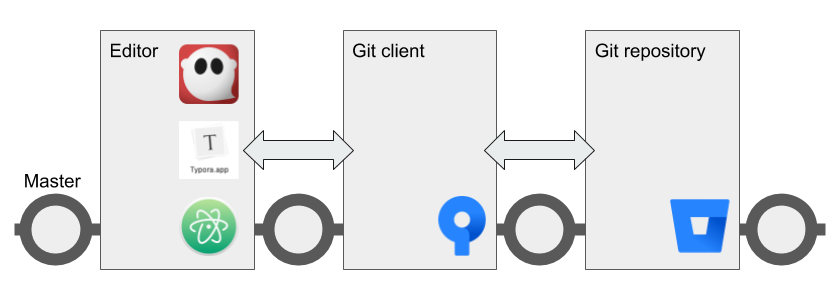
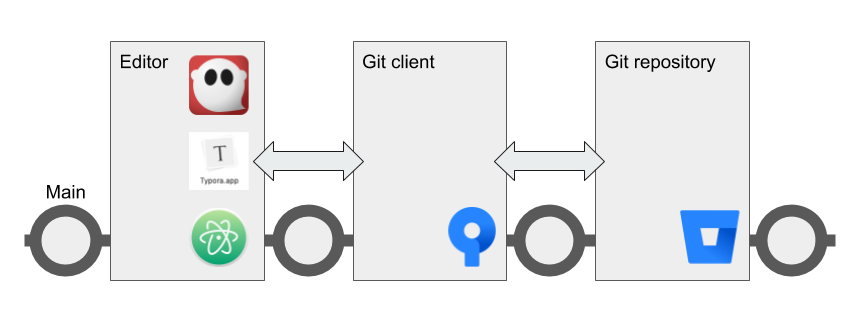
Added syntax strengths and weaknesses, fixed branch name in images.

Changed region(s): [[0.0, 0.0906, 0.9928, 0.906]]

diff --git a/source/resources/syntax-comparison.rst b/source/resources/syntax-comparison.rst
@@ -3,9 +3,26 @@ Markup comparison
 
 Here's a comparison of three popular markup languages:
 
-- AsciiDoc provides powerful, flexible syntax using blocks and attributes. 
+- AsciiDoc provides powerful, flexible syntax using blocks and attributes.
 - Markdown focuses on simplicity and ease of writing.
 - reStructuredText uses an extensible scheme of interpreted text roles, blocks, and directives.
+
+All three are supported in Git repositories.
+
++--------------------+------------------------------+--------------------------------------------+-----------------------------------------------------------+
+|                    | AsciiDoc                     | Markdown                                   | reStructuredText                                          |
++====================+==============================+============================================+===========================================================+
+| **Strengths**      | * Easy syntax                | * Easy syntax                              | * Extensible                                              |
+|                    | * Standardized               | * Many tools available                     | * With Sphinx, easy to create docs for the web            |
+|                    | * Designed for tech writing  | * Great for taking notes or writing posts  | * Many ways to create tables                              |
+|                    | * Converts to DocBook        | * Can embed HTML                           | * Standardized                                            |
++--------------------+------------------------------+--------------------------------------------+-----------------------------------------------------------+
+| **Weaknesses**     | * Few dedicated editors      | * No code reuse, TOCs, or internal linking | * Formatting of headings is inconvenient and inconsistent |
+|                    | * Toolchains can be complex  | * Many incompatible flavors                | * Link syntax is not intuitive                            |
+|                    | * Idiosyncratic link syntax  | * Lacks admonitions and other features     | * Directives and roles are clunky                         |
+|                    |                              |                                            | * Very easy to create syntax errors                       |
+|                    |                              |                                            | * Few tools available                                     |
++--------------------+------------------------------+--------------------------------------------+-----------------------------------------------------------+
 
 Here's a quick comparison of the syntax. This is just to show what they look like, not exhaustive, just to give you a feeling. For example, in all 3 languages there are more ways to do links and headings than we're showing.
 
@@ -27,9 +44,9 @@ Here's a quick comparison of the syntax. This is just to show what they look lik
 | **Numbered list**  | .                            | | 1.                  | | 1.                           |
 |                    |                              |                       | | \#.                          |
 +--------------------+------------------------------+-----------------------+--------------------------------+
-| **Headings**       | Underline with a sequence    | | \# H1               || \= Document title             |
-|                    | of characters (flexible,     | | \##  H2             || \== H1                        |
-|                    | figured out by the parser)   | | \###  H3            || \=== H2                       |
+| **Headings**       | | \= Document title          | | \# H1               | Underline with a sequence      |
+|                    | | \== H1                     | | \##  H2             | of characters (flexible,       |
+|                    | | \=== H2                    | | \###  H3            | figured out by the parser)     |
 +--------------------+------------------------------+-----------------------+--------------------------------+
 | **Semantics**      | | Block ID                   |                       || Interpreted text              |
 |                    | | Role                       |                       || Explicit markup               |
@@ -54,6 +71,3 @@ Here's a quick comparison of the syntax. This is just to show what they look lik
 |                    |                              |                       | |    \:option: value           |
 |                    |                              |                       | |    \:option: value           |
 +--------------------+------------------------------+-----------------------+--------------------------------+
-
-
-

diff --git a/source/recipes/recipes-centralized-workflow.rst b/source/recipes/recipes-centralized-workflow.rst
@@ -2,7 +2,7 @@ Collaborate using centralized Git workflow
 ==========================================
 
 You can use Git to help a team collaborate on informal or internal
-documents in a very simple way. 
+documents in a very simple way.
 
 The centralized workflow can be an effective way for content creators,
 managers, and engineers to collaborate on non-production content such as
@@ -15,7 +15,8 @@ and the like.
 In this workflow, everyone works on the same branch. This makes things
 easy for simple collaboration.
 
-.. Note:: If you’re publishing a large website or documentation set in a production environment with with a substantial number of collaborators,you should consider using `GitHub Flow <../recipes-gitflow/>`__ instead.
+.. Note::
+   If you’re publishing a large website or documentation set in a production environment with with a substantial number of collaborators,you should consider using `GitHub Flow <../recipes-gitflow/>`__ instead.
 
 Ingredients
 -----------
@@ -24,7 +25,8 @@ Ingredients
 * Git
 * Sphinx or Pandoc
 
-.. hint::   Plan ahead based on the publishing tool you want to use. If you’re planning to use a wiki, MkDocs, or Hugo, organize your docs in `Git wiki structure <../../tools/tools-publishing#git-wiki-structure>`__ and add YAML frontmatter from the start. If you’re creating large documents with Pandoc, think about whether you need to work on content in pieces and then use Pandoc to assemble everything.
+.. hint::
+   Plan ahead based on the publishing tool you want to use. If you’re planning to use a wiki, MkDocs, or Hugo, organize your docs in `Git wiki structure <../../tools/tools-publishing#git-wiki-structure>`__ and add YAML frontmatter from the start. If you’re creating large documents with Pandoc, think about whether you need to work on content in pieces and then use Pandoc to assemble everything.
 
 Working with content
 --------------------
@@ -36,21 +38,17 @@ that keeps content safe and synchronized for all collaborators.
 
 1. `Pull <pull>`_
     Fetch the latest changes from the remote repository to the local repository on your computer
-2. Work  
+2. Work
     Edit your content in your favorite Markdown editor
-3. `Stage and commit <stage-and-commit>`_   
+3. `Stage and commit <stage-and-commit>`_
     From time to time, in your Git client, type a short sentence about what you've done and save the changes to Git
 4. `Push <push>`_
      When your work is final, push it up to the remote repository
 
-If you need to publish, XXX
+If you need to publish, you can use Sphinx to create a website or ePub book, or Pandoc to convert to other formats.
 
 .. hint:: Remember not to publish content into a Git repository. The repo is only for storing your reStructuredText and other source files.
 
-Next steps
-----------
+See also:
 
-Check out the following recipes :
-
--  `Manage docs with Gitflow <../recipes-gitflow/>`__
--  
+- :ref:`publishing-tools`

diff --git a/source/tools/editors.rst b/source/tools/editors.rst
@@ -8,14 +8,13 @@ Like other markup languages, reStructuredText works well with text editors and c
 
 Code editors
 ------------
-Code editors, while they are not designed specifically for reStructuredText, sometimes offer sophisticated packages to support reStructuredText editing and preview. 
+Code editors, while they are not designed specifically for reStructuredText, sometimes offer sophisticated packages to support reStructuredText editing and preview.
 
 .. image:: ../../img/atom-rst-screenshot.png
-
-An advantage of a code editor is the ability to do things like jump to a specific line number or set text wrapping rules. Some editors let you manage your project in Git directly from the user interface. The following editors, among others, are worth a look:
+An advantage of a code editor is the ability to do things like jump to a specific line number or set text wrapping rules. A disadvantage is that code editors might not have packages to help you edit tables graphically. Some editors let you manage your project in Git directly from the user interface. The following editors, among others, are worth a look:
 
 - `Atom <https://atom.io/>`_
-- `Sublime Text <https://www.sublimetext.com/>`_ 
+- `Sublime Text <https://www.sublimetext.com/>`_
 - `Visual Studio Code <https://code.visualstudio.com/>`_
 
 There are also various reStructuredText tools for `Eclipse <https://www.eclipse.org/>`_.
@@ -23,7 +22,7 @@ There are also various reStructuredText tools for `Eclipse <https://www.eclipse.
 reStructuredText editors
 ------------------------
 
-There are a few dedicated reStructuredText editors out there. Most editors offer a live preview with error messages to help you troubleshoot your reStructuredText as you write. My current favorite is ReText, which is simple but makes tables and images easy.
+There are a few dedicated reStructuredText editors out there. Most editors offer a live preview with error messages to help you troubleshoot your reStructuredText as you write. My current favorite is ReText, which is simple but makes tables and images easy. An advantage of a dedicated reStructuredText editor is that some of them include support for editing tables and other syntactical features.
 
 Formiko
 ^^^^^^^

diff --git a/source/tools/publishing.rst b/source/tools/publishing.rst
@@ -1,3 +1,5 @@
+.. _publishing-tools:
+
 Publishing tools
 ================
 
@@ -19,7 +21,7 @@ It was originally created for the Python documentation, and it has excellent fac
     Extensions: automatic testing of code snippets, inclusion of docstrings from Python modules (API docs), and more
     Contributed extensions: more than 50 extensions contributed by users in a second repository; most of them installable from PyPI
 
-Sphinx uses reStructuredText as its markup language, and many of its strengths come from the power and straightforwardness of reStructuredText and its parsing and translating suite, the Docutils. 
+Sphinx uses reStructuredText as its markup language, and many of its strengths come from the power and straightforwardness of reStructuredText and its parsing and translating suite, the Docutils.
 
 Sphinx is a Python documentation generator.
 
